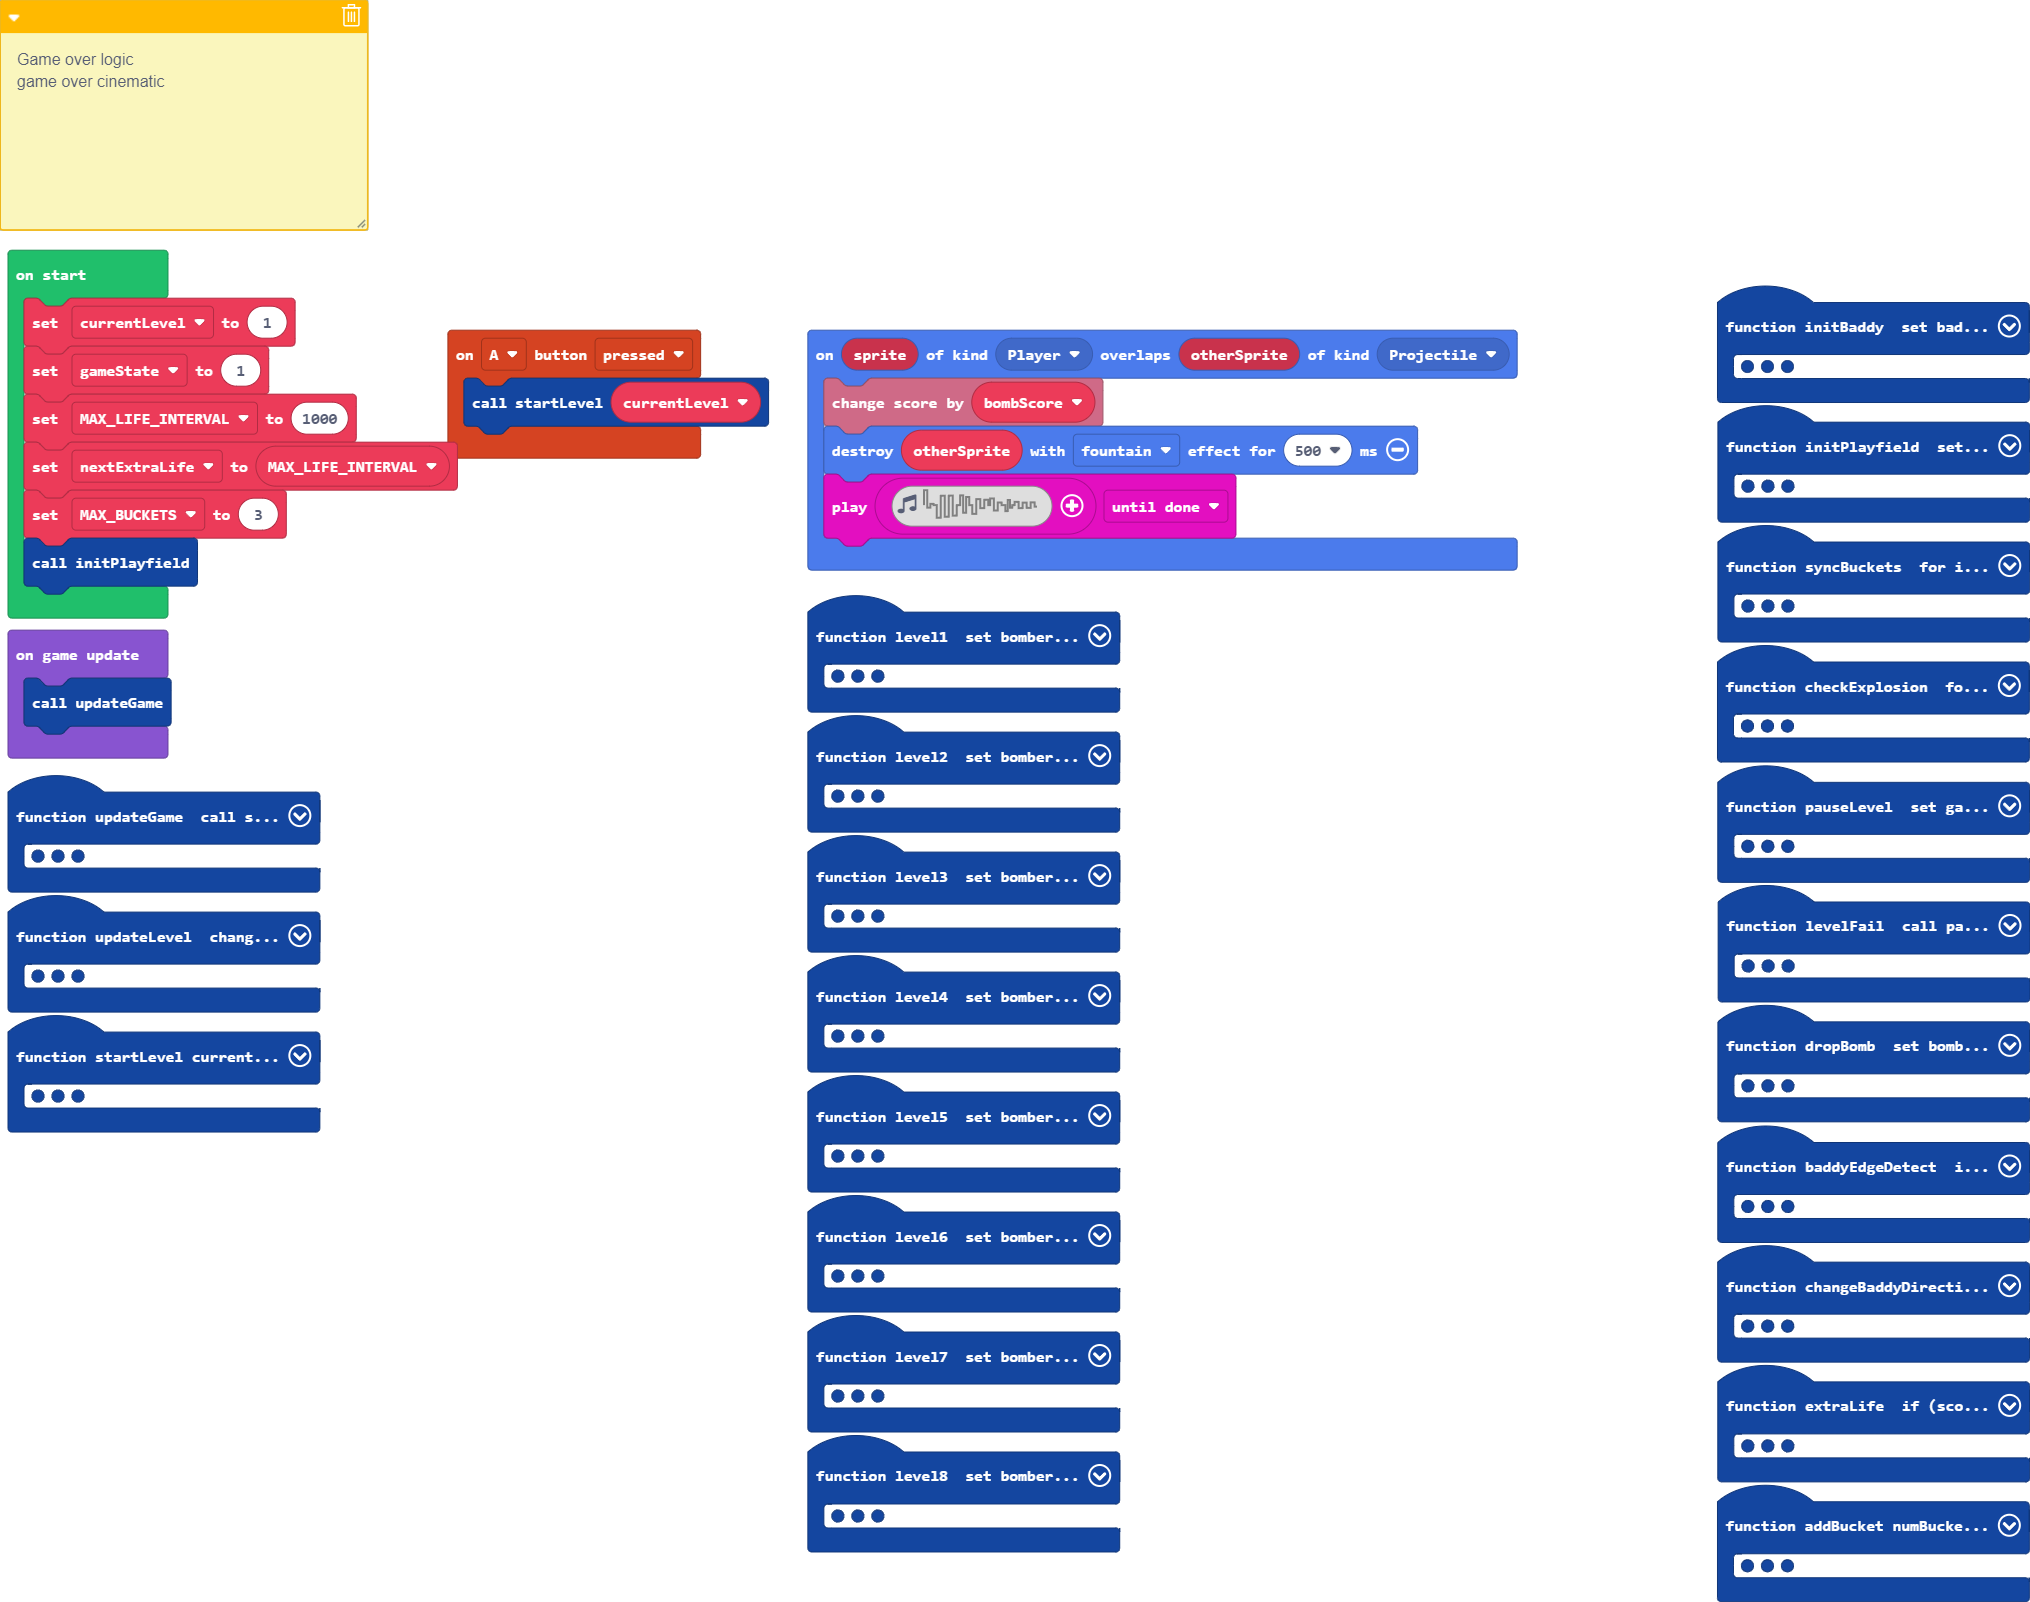
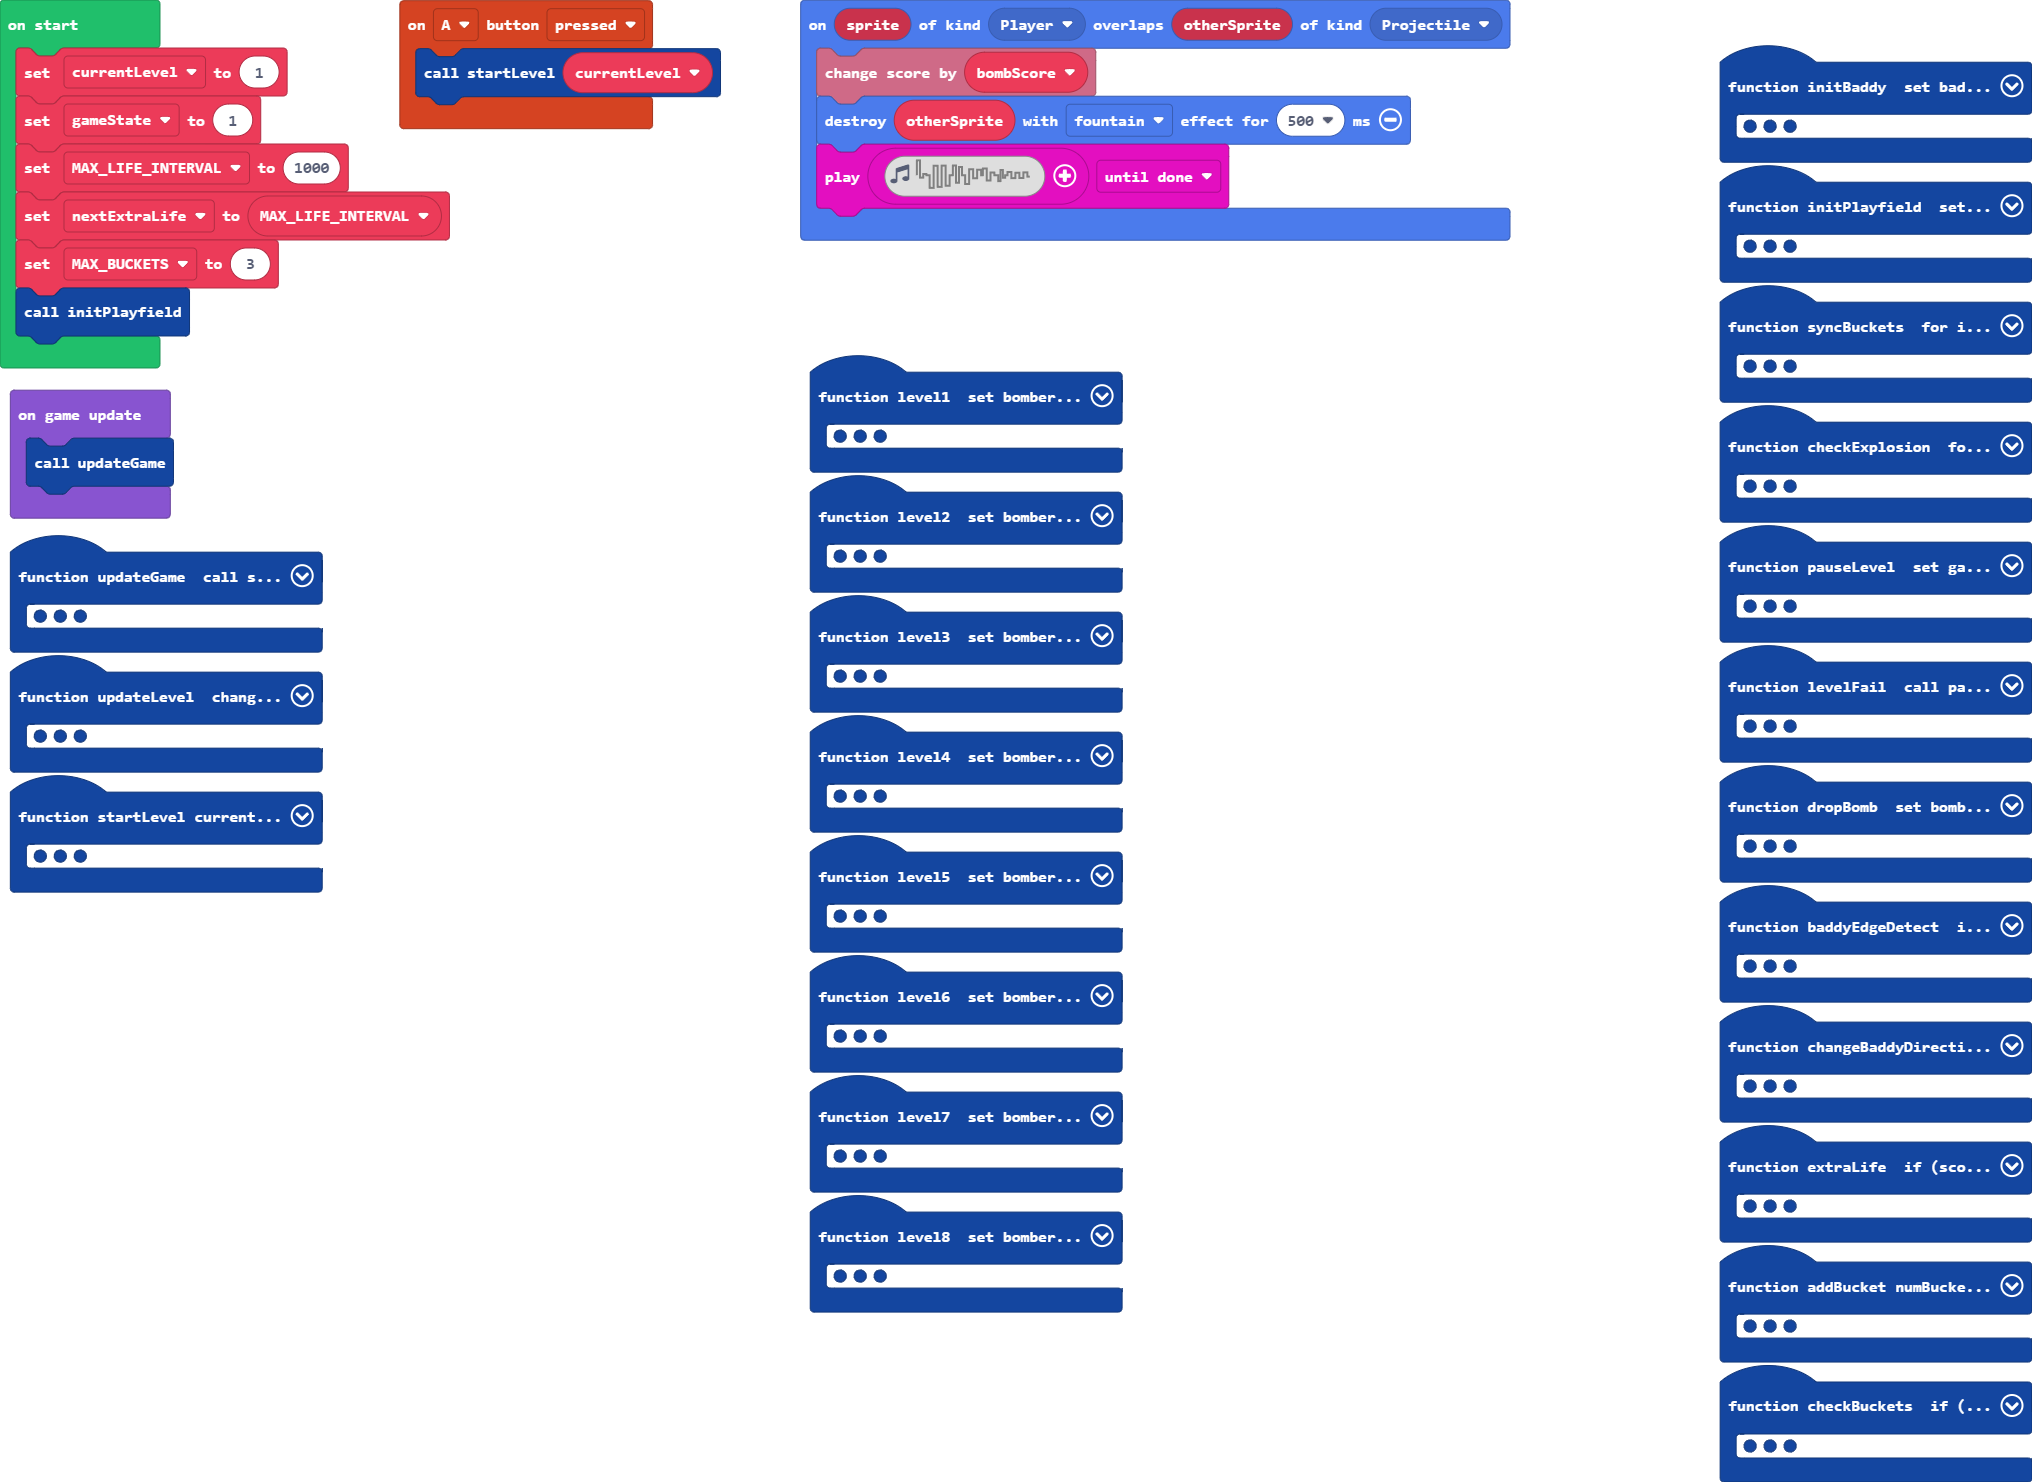
Update main.blocks, main.ts

diff --git a/main.ts b/main.ts
@@ -87,6 +87,7 @@ function initBaddy () {
     baddy = sprites.create(baddyImages[0], SpriteKind.Enemy)
     baddy.setPosition(10, 15)
     baddy.setStayInScreen(true)
+    baddy.setBounceOnWall(true)
 }
 controller.A.onEvent(ControllerButtonEvent.Pressed, function () {
     startLevel(currentLevel)
@@ -152,6 +153,11 @@ function level2 () {
     dropInterval = randint(dropIntervalLB, dropIntervalUB)
     dropSpeed = 20
     successState = 1
+}
+function checkBuckets () {
+    if (buckets.length == 0) {
+        game.gameOver(false)
+    }
 }
 sprites.onOverlap(SpriteKind.Player, SpriteKind.Projectile, function (sprite, otherSprite) {
     info.changeScoreBy(bombScore)
@@ -234,14 +240,12 @@ function updateGame () {
     syncBuckets()
     checkExplosion()
     extraLife()
+    checkBuckets()
     if (gameState == 0) {
         if (bombsDropped < bombCount) {
             timer.throttle("BombDrop", dropInterval, function () {
                 dropBomb()
                 timer.background(function () {
-                    if (baddyEdgeDetect() == 0) {
-                        changeBaddyDirection()
-                    }
                     timer.throttle("changeDirection", directionChange, function () {
                         changeBaddyDirection()
                         directionChange = randint(directionChangeLB, directionChangeUB)
@@ -325,11 +329,6 @@ function dropBomb () {
     dropInterval = randint(dropIntervalLB, dropIntervalUB)
     bombsDropped += 1
 }
-/**
- * Game over logic
- * 
- * game over cinematic
- */
 let value: Sprite = null
 let row = 0
 let bomb: Sprite = null
